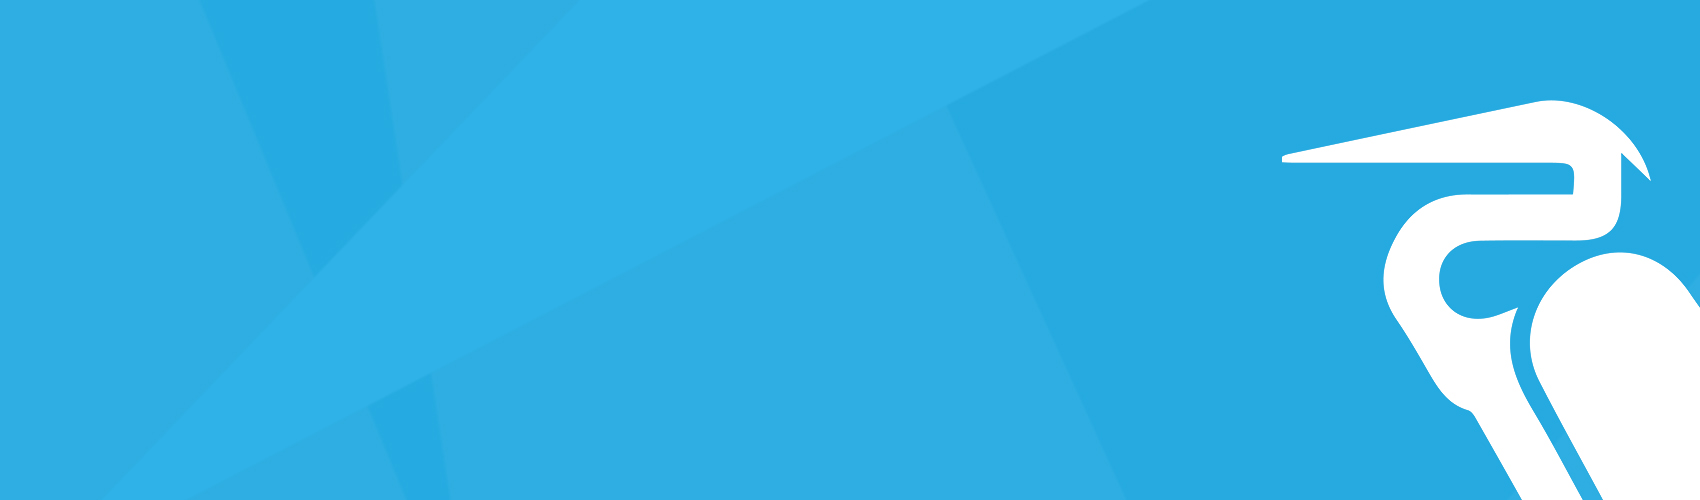
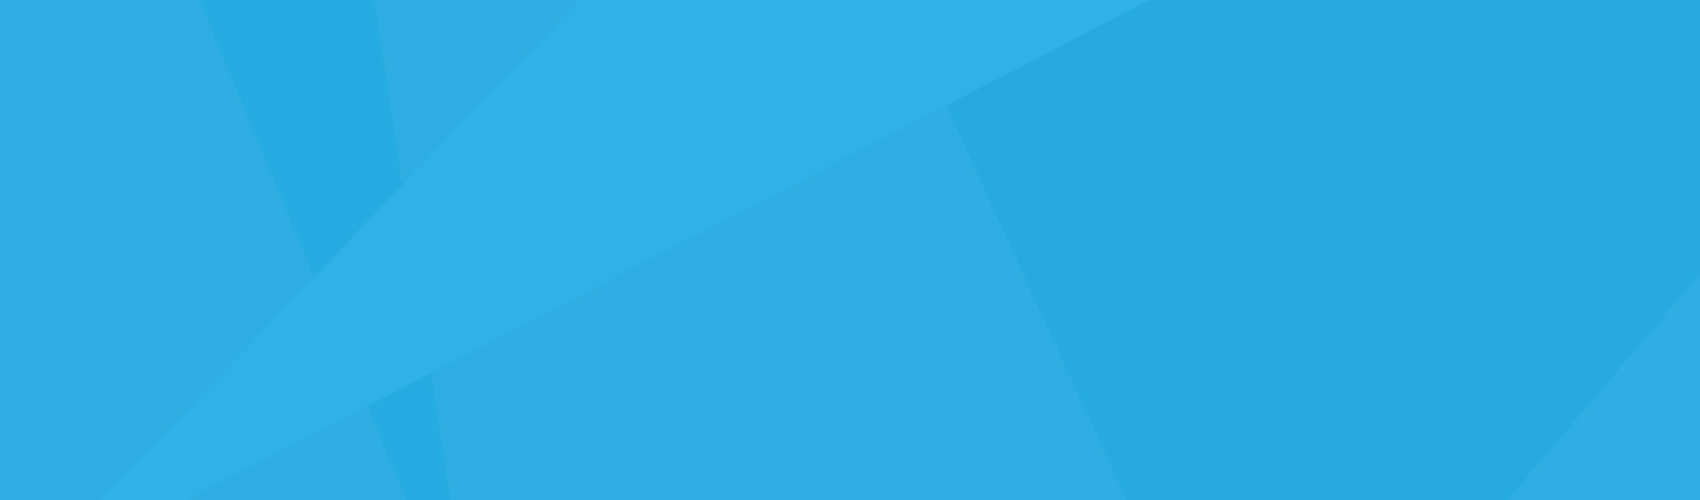
fixed heron and jumbotron

Changed region(s): [[0.7482, 0.18, 1.0, 1.0]]

diff --git a/index.html b/index.html
@@ -4,7 +4,32 @@ layout: main
 css: index.css
 ---
 
-<div class="" style="background-image:url(../images/header.jpg)">
+
+<div class="intro-header">
+
+	<div class="container">
+
+		<div class="row">
+			<div class="col-lg-12">
+				<div class="intro-message">
+					<h1>Search, properly done</h1>
+					<h3>A complete solution built for developers</h3>
+					<hr class="intro-divider">
+					<ul class="list-inline intro-social-buttons">
+						<li><a href="http://developers.anyfetch.com/" class="btn btn-default btn-lg"><span class="network-name">Get started</span></a>
+						</li>
+					</ul>
+				</div>
+			</div>
+		</div>
+
+	</div>
+	<!-- /.container -->
+
+</div>
+<!-- /.intro-header -->
+
+<!-- <div class="" style="background-image:url(../images/header.jpg)">
 
 	<div class="container">
 
@@ -28,10 +53,8 @@ css: index.css
 		</div>
 
 	</div>
-	<!-- /.container -->
 
-</div>
-<!-- /.intro-header -->
+</div>-->
 
 <div class="banner" style="background-color:white">
 

diff --git a/styles/style.css b/styles/style.css
@@ -121,19 +121,16 @@ a {
 	padding-bottom: 50px;
 	margin-top: 50px;
 	color: #f8f8f8;
-	background: url(../images/screen_linkedin_draft.jpg) no-repeat top right;
-	background-size: cover;
+	background: url(../images/heron.png) no-repeat bottom right, url(../images/header.jpg) no-repeat center center;
+	background-size: 20%, cover;
 	text-align: center;
+	height: 400px;
 }
 
 .intro-message {
 	position: relative;
 	padding-top: 5%;
-	margin-top: 15%;
-	padding-bottom: 5%;
-	margin-bottom: 15%;
-	padding: 40px;
-	background-color: rgba(0,0,0,0.4);
+	text-align: left;
 }
 
 .intro-message > h1 {
@@ -305,9 +302,8 @@ p {
 }
 
 .jumbotron {
-	background-image: url(../images/header.jpg);
-	background-repeat: no-repeat;
-	background-size: cover;
+	background: url(../images/heron.png) no-repeat bottom right, url(../images/header.jpg) no-repeat center center;
+	background-size: 20%, cover;
 	margin-bottom: 25px;
 }
 
